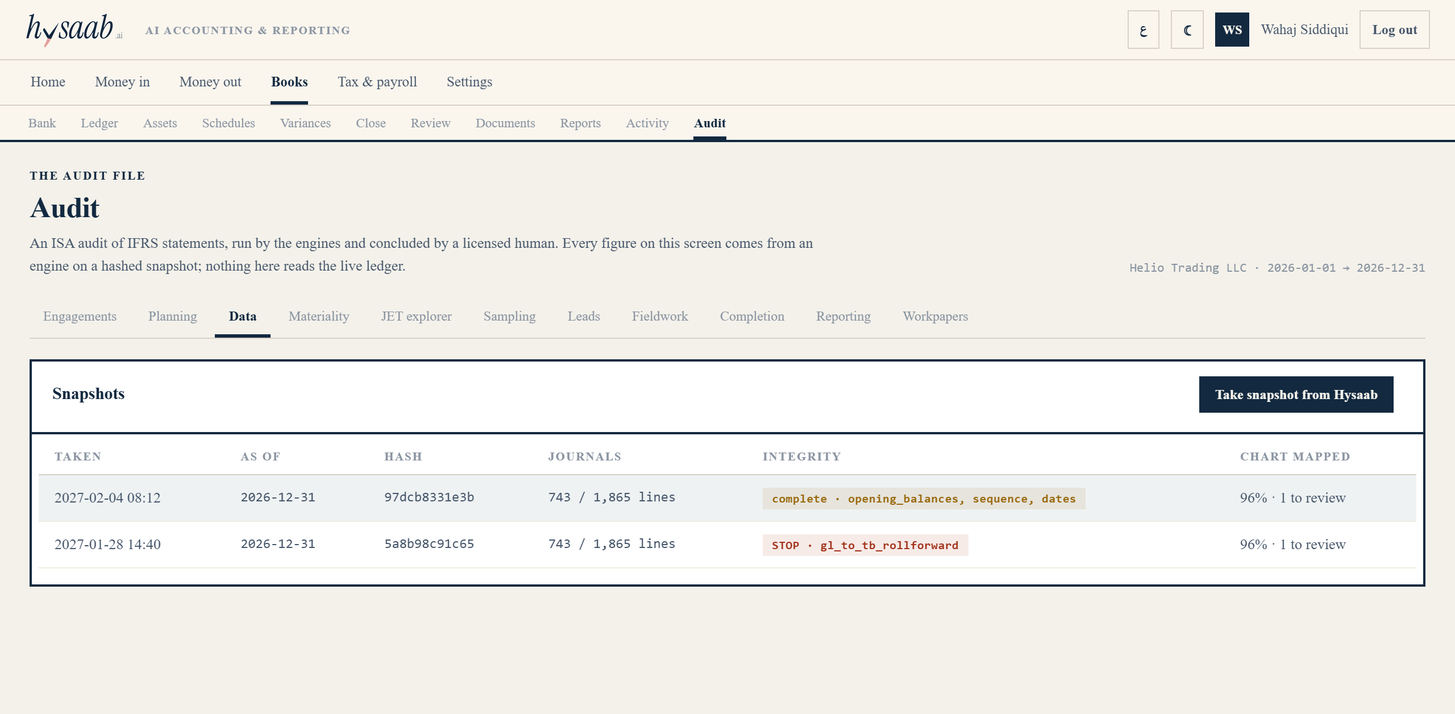
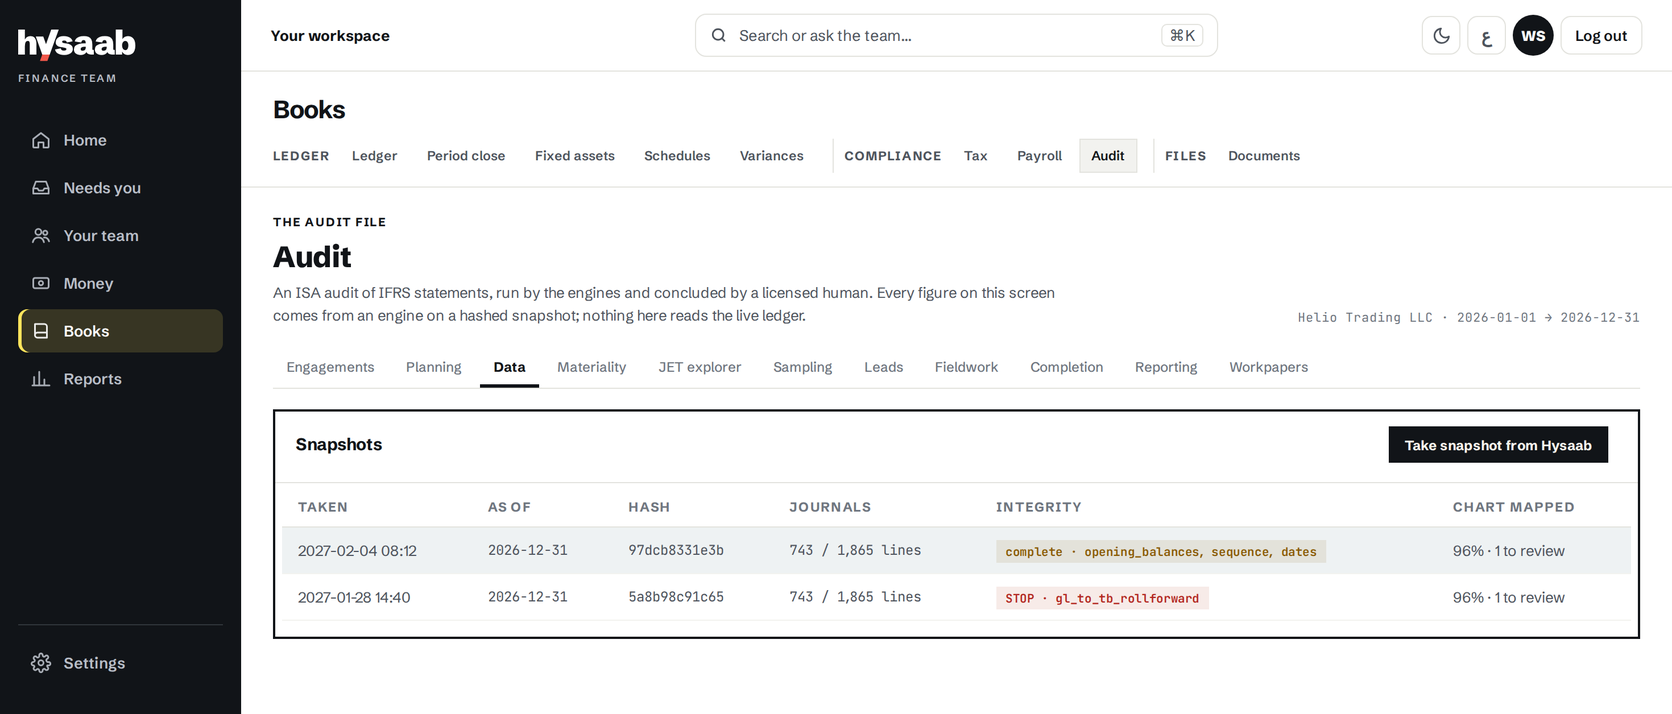
Product screenshots in Tick & Tie: audit, finance and captions
Every product capture on the site now shows the rebranded app (ink,
highlighter, Hysaab Grotesk/Mono), rendered from the app itself with its
built-in sample data:
- Audit (public/shots/audit-*.png, home/screens/p-audit-jet.png): the
  real audit module fed the Helio Trading demo engagement. /audit shot
  sizes updated. The completion card now agrees with its register (5
  uncorrected, PBT -718,500) and the planning gate no longer contradicts
  the approved risk register.
- Finance (home/screens 00-05, f-01..f-05, p-payables, p-close,
  p-receivables, p-tax): the same panels as before; the personal email in
  the intake ledger is redacted as before.
- Captions follow what the screens show today: the decisions moment is
  the review queue, the position moment is the Home screen, receivables
  no longer mentions provisioning, the close shows one checklist (en+ar).
- /audit no longer says Practice and Audit share the same clients; each
  keeps its own client records and independence rules decide.

adv-arabic.png is unchanged: the new workspace home is only partly
translated in Arabic, so a fresh capture would show mixed languages.

Claude-Session: https://claude.ai/code/session_01QfKEbqKpFncXbPW1S3saiE

diff --git a/app/(en)/audit/page.tsx b/app/(en)/audit/page.tsx
@@ -31,7 +31,7 @@ const STEPS: {
       ["Sequence", <>Missing journal numbers are listed as gaps for the client to explain.</>],
       ["Hashed", <>SHA-256 on the snapshot. Every later figure cites the hash it came from.</>],
     ],
-    shot: { src: "/shots/audit-data.png", w: 2560, h: 1256, alt: "Hysaab Audit snapshots: the first pull marked STOP for a broken general-ledger roll-forward, the corrected pull marked complete, both with their SHA-256 hashes" },
+    shot: { src: "/shots/audit-data.png", w: 2940, h: 1256, alt: "Hysaab Audit snapshots: the first pull marked STOP for a broken general-ledger roll-forward, the corrected pull marked complete, both with their SHA-256 hashes" },
     bar: "Data · snapshots and integrity",
     cap: "The first snapshot stopped the file: the client's trial balance predated a journal in the ledger.",
   },
@@ -44,7 +44,7 @@ const STEPS: {
       ["Materiality", <>Computed from this year's figures, with every candidate benchmark shown and the choice explained.</>],
       ["The programme", <>Only the procedures that fit the chart are instantiated. No tax recompute where there is no tax account.</>],
     ],
-    shot: { src: "/shots/audit-planning.png", w: 2540, h: 2360, alt: "Hysaab Audit planning: phase strip, the B6 risk register with nine significant risks by line and assertion, and the planning procedures with their last run" },
+    shot: { src: "/shots/audit-planning.png", w: 2920, h: 2360, alt: "Hysaab Audit planning: phase strip, the B6 risk register with nine significant risks by line and assertion, and the planning procedures with their last run" },
     bar: "Planning · risk register and procedures",
     cap: "Nine significant risks, each with the factor that raised it. The gate stays shut until the partner approves.",
   },
@@ -57,7 +57,7 @@ const STEPS: {
       ["Thirty criteria", <>Post-close postings, round numbers, weekends and holidays, blank narratives, seldom-used accounts, keyword hits, duplicates, reversals, segregation conflicts, entries just below an approval threshold.</>],
       ["Auditable", <>Each row carries the criteria that flagged it. The selection is seeded, so it reproduces.</>],
     ],
-    shot: { src: "/shots/audit-jet.png", w: 2540, h: 2360, alt: "Hysaab Audit journal-entry testing: every journal scored against thirty criteria, stratified above performance materiality, scored and random, with the criteria hits and vouching result on each row" },
+    shot: { src: "/shots/audit-jet.png", w: 2920, h: 2360, alt: "Hysaab Audit journal-entry testing: every journal scored against thirty criteria, stratified above performance materiality, scored and random, with the criteria hits and vouching result on each row" },
     bar: "JET explorer · ISA 240 journal testing",
     cap: "The top rows are the planted ones: revenue booked after year-end, a suspense plug, a duplicate payment, a capitalised expense, a related-party fee.",
   },
@@ -70,7 +70,7 @@ const STEPS: {
       ["Attribute too", <>Control testing at ninety-five percent confidence with its own sample table.</>],
       ["Honest answer", <>An upper limit above performance materiality is reported as not accepted, not explained away.</>],
     ],
-    shot: { src: "/shots/audit-sampling.png", w: 2540, h: 2360, alt: "Hysaab Audit sampling workbench: monetary-unit sample design, the selection with top stratum and sampled items, audited values entered, and the evaluation with the upper misstatement limit" },
+    shot: { src: "/shots/audit-sampling.png", w: 2920, h: 2360, alt: "Hysaab Audit sampling workbench: monetary-unit sample design, the selection with top stratum and sampled items, audited values entered, and the evaluation with the upper misstatement limit" },
     bar: "Sampling · monetary-unit sample",
     cap: "Upper limit 563,355 against performance materiality 231,800. The engine calls it: not accepted.",
   },
@@ -83,7 +83,7 @@ const STEPS: {
       ["Reliability", <>Scored by route and sender domain. A forwarded reply is evidence of a different grade.</>],
       ["Sent by people", <>Letters leave the firm's own mailbox. The software drafts them and tracks them.</>],
     ],
-    shot: { src: "/shots/audit-fieldwork.png", w: 2540, h: 2360, alt: "Hysaab Audit fieldwork: the confirmation tracker with book and confirmed balances, reliability and status, and the information request list with owners, due dates and received status" },
+    shot: { src: "/shots/audit-fieldwork.png", w: 3120, h: 2360, alt: "Hysaab Audit fieldwork: the confirmation tracker with book and confirmed balances, reliability and status, and the information request list with owners, due dates and received status" },
     bar: "Fieldwork · confirmations and requests",
     cap: "One exception of 42,750, one reply routed through the client, one escalated to alternative procedures.",
   },
@@ -96,7 +96,7 @@ const STEPS: {
       ["Subsequent events", <>Post-period journals and minutes are scanned and classified adjusting or non-adjusting, with the IAS 10 reference.</>],
       ["File completion", <>Nine checks on the file itself. Two are still open on this engagement, and it says so.</>],
     ],
-    shot: { src: "/shots/audit-completion.png", w: 2540, h: 2460, alt: "Hysaab Audit completion: the misstatement register evaluated against materiality on both bases, going concern with stress headroom, file completion checks, and the subsequent events classified under IAS 10" },
+    shot: { src: "/shots/audit-completion.png", w: 3120, h: 2460, alt: "Hysaab Audit completion: the misstatement register evaluated against materiality on both bases, going concern with stress headroom, file completion checks, and the subsequent events classified under IAS 10" },
     bar: "Completion · the misstatement register",
     cap: "Five findings, four above clearly trivial, one aggregate the partner has to act on.",
   },
@@ -109,7 +109,7 @@ const STEPS: {
       ["Versions", <>Immutable. The reason for every new version is on the paper.</>],
       ["Conclusions", <>A reviewer cannot sign a judgement workpaper without recording a conclusion in their own words.</>],
     ],
-    shot: { src: "/shots/audit-workpapers.png", w: 2540, h: 2460, alt: "Hysaab Audit workpaper file: twenty-one workpapers with their review state, and the trade receivables lead schedule open with tick marks, the sub-ledger difference and an inconclusive conclusion" },
+    shot: { src: "/shots/audit-workpapers.png", w: 2920, h: 2460, alt: "Hysaab Audit workpaper file: twenty-one workpapers with their review state, and the trade receivables lead schedule open with tick marks, the sub-ledger difference and an inconclusive conclusion" },
     bar: "Workpapers · the audit file",
     cap: "The receivables lead is inconclusive because the sub-ledger is 15,000 short. It stays inconclusive until someone explains it.",
   },
@@ -270,7 +270,7 @@ export default function AuditPage() {
               <p className="hw-eyebrow">Where it sits</p>
               <h2>Part of the professional services stack.</h2>
             </div>
-            <p>Hysaab Audit can be bought on its own, or with <a href="/firms">Hysaab Practice</a>, our product for tax and advisory firms. Together they share the same clients, the same file room and the same rule that the AI proposes and a person decides.</p>
+            <p>Hysaab Audit can be bought on its own, or with <a href="/firms">Hysaab Practice</a>, our product for tax and advisory firms. Both follow the same rule: the AI proposes and a person decides. Each keeps its own client records, so your independence rules decide who works on which client.</p>
           </div>
           <div className="hw-cards">
             <article>

diff --git a/lib/home-moments.ts b/lib/home-moments.ts
@@ -84,11 +84,11 @@ export const MOMENTS: MomentDef[] = [
     tabBody: "If a treatment looks wrong, Hysaab explains the concern and recommends a better route.",
     title: "A colleague who asks you to think twice.",
     description: "When a coding falls below the confidence gate, a tax invoice fails the rules or a price creeps, Hysaab stops and brings it to you with its reasoning.",
-    caption: "Decisions required, sample data: a coding questioned against the supplier’s history, input VAT held until an invoice is corrected, and a price rise with no contract change on file.",
-    alt: "Hysaab decisions queue with four items: two missing periods for a recurring supplier, a coding below the confidence threshold where history suggests a different account, a tax invoice that omits the supplier TRN so input VAT is blocked, and a detected price increase. Each shows the agent, a confidence score and buttons to open the queue or the detail.",
+    caption: "The review queue, sample data: four decisions with the agent that raised each and its confidence, one open: input VAT held until the supplier corrects its invoice.",
+    alt: "Hysaab review queue with four decisions: two periods missing for a recurring supplier, a coding below the confidence threshold, tax invoice criteria not met, and price creep detected, each with its agent and confidence. The tax invoice decision is open: Almarai Catering INV-5512 omits the supplier TRN, so input VAT of AED 1,036 is blocked until corrected, with a box for the reviewer’s reasoning.",
     pending: "Workspace capture pending: the decisions queue.",
     focus: "f-03-second-opinion.png",
-    notice: "Notice a coding questioned against the supplier’s own history, and input VAT held until the invoice is corrected.",
+    notice: "Notice each decision carries the agent and its confidence, and the open one holds input VAT until the invoice is corrected.",
   },
   {
     key: "record", num: "04", file: "04-app-journal-why.png", channel: WORKSPACE,
@@ -105,14 +105,14 @@ export const MOMENTS: MomentDef[] = [
   {
     key: "position", num: "05", file: "05-app-position.png", channel: WORKSPACE,
     tabTitle: "See where you stand.",
-    tabBody: "Ask in plain words, or read cash, payables, receivables, VAT and runway at a glance.",
+    tabBody: "Ask the team in plain words, or read cash, decisions and bills due at a glance.",
     title: "The picture, in plain words.",
-    description: "The Today screen opens with a question box and the position that matters: cash, working capital, revenue, payables due, overdue receivables, VAT, runway and burn.",
-    caption: "The Today screen, sample data: the plain-language question box and the eight position tiles.",
-    alt: "Hysaab Today screen: a box asking “What do you want to know?” with suggested questions, above eight tiles for cash position, net working capital, revenue month to date, payables due in 30 days, receivables overdue, VAT position, runway and net burn.",
-    pending: "Workspace capture pending: the Today screen.",
+    description: "Home opens on what needs you: cash, the decisions waiting and the bills due, then where the month’s cash came from and went.",
+    caption: "The Home screen, sample data: cash, decisions and bills due in 30 days, and June’s cash: AED 612k in, AED 442k out.",
+    alt: "Hysaab Home screen: tiles for cash of AED 1.4m, up 14% on last month, four decisions with two critical, and AED 216k due in 30 days with two bills overdue; below, a chart of June from AED 1.23m at the start, AED 612k in and AED 442k out, to AED 1.4m now.",
+    pending: "Workspace capture pending: the Home screen.",
     focus: "f-05-position.png",
-    notice: "Notice the position tiles: cash, working capital, revenue and payables due, each with its context line.",
+    notice: "Notice the three tiles: cash, what needs you and what falls due, each with its context line.",
   },
 ];
 

diff --git a/app/ar/how-it-works/page.tsx b/app/ar/how-it-works/page.tsx
@@ -96,8 +96,8 @@ const SCREENS = [
     p: "حين ينزل الترميز دون بوابة الثقة، أو تخفق فاتورة ضريبية في القواعد، أو يرتفع سعر مورد بلا تغيير في العقد المحفوظ، يتوقف Hysaab ويأتيك بالأمر. يخبرك بما تقوله سياستك ويطلب منك أن تقرر.",
     ticks: ["كل قرار يسمّي الشاغل والدليل", "مسار موصى به، لا تصحيح صامت", "إجابتك تُسجَّل مع القيد الذي تؤثر فيه"],
     file: "03-app-second-opinion.png", title: "قرارات مطلوبة",
-    alt: "قائمة القرارات في Hysaab وفيها أربعة بنود: فترات ناقصة لمورد متكرر، وترميز دون حد الثقة حيث يشير السجل إلى حساب مختلف، وفاتورة ضريبية تغفل رقم التسجيل الضريبي للمورد فتُحظر ضريبة المدخلات، وزيادة سعر مكتشفة. يعرض كل بند درجة ثقة وأزرارًا لفتح القائمة أو التفاصيل. بيانات تجريبية.",
-    caption: "قرارات مطلوبة، بيانات تجريبية: ترميز موضع تساؤل، وضريبة مدخلات محتجزة حتى تُصحَّح الفاتورة، وزيادة سعر بلا تغيير في العقد المحفوظ.",
+    alt: "قائمة المراجعة في Hysaab وفيها أربعة قرارات: فترات ناقصة لمورد متكرر، وترميز دون حد الثقة، وفاتورة ضريبية لا تستوفي المعايير، وزيادة سعر، لكل منها وكيلها ودرجة ثقتها. القرار المفتوح: فاتورة ألمراعي INV-5512 تغفل رقم التسجيل الضريبي للمورد، فتُحظر ضريبة مدخلات قدرها 1,036 درهمًا حتى التصحيح. بيانات تجريبية.",
+    caption: "قائمة المراجعة، بيانات تجريبية: أربعة قرارات لكل منها وكيلها ودرجة ثقتها؛ والقرار المفتوح يحتجز ضريبة المدخلات حتى تُصحَّح الفاتورة.",
   },
   {
     eyebrow: "الخطوتان 08 و09 / على الشاشة",
@@ -105,8 +105,8 @@ const SCREENS = [
     p: "الاستحقاقات المقترحة تجلس بجانب أساسها. قائمة تحقق تغطي جانب Hysaab من الإقفال وأخرى تغطي جانب دفترك. والقفل مشروط، وينتظرك أنت.",
     ticks: ["الاستحقاقات تُقترح مع أساسها، وتوافق عليها أنت", "قائمة تحقق لكل جانب من الإقفال", "قفل الفترة يضغطه شخص"],
     file: "p-close.png", title: "لوحة الإقفال",
-    alt: "لوحة الإقفال في Hysaab: استحقاقات متكررة مقترحة مع أساسها ومبلغها، وقائمة تحقق بما يشغّله Hysaab، وقائمة تحقق لجانب دفتر الأستاذ، وزر إقفال الفترة وقفلها. بيانات تجريبية.",
-    caption: "لوحة الإقفال، بيانات تجريبية: الاستحقاقات المقترحة وقائمتا التحقق والقفل المشروط.",
+    alt: "لوحة الإقفال في Hysaab: استحقاقات متكررة مقترحة مع أساسها ومبلغها، وقائمة تحقق لجانب دفتر الأستاذ، وزر إقفال الفترة وقفلها خلف بوابتها. بيانات تجريبية.",
+    caption: "لوحة الإقفال، بيانات تجريبية: الاستحقاقات المقترحة وقائمة تحقق دفتر الأستاذ والقفل المشروط.",
   },
 ];
 

diff --git a/app/ar/accounting/page.tsx b/app/ar/accounting/page.tsx
@@ -41,8 +41,8 @@ const MODULES = [
     p: "تُصاغ رسائل التذكير ضمن وتيرة تحصيل تحددها مرة واحدة، ولا يُرسل شيء قبل موافقتك. أعمار الديون ووعود السداد والتعرض للمخصصات على شاشة واحدة، مقيسة وفق سياستك أنت.",
     ticks: ["أعمار الديون والخطوة التالية لكل فاتورة مفتوحة", "المخصصات تتبع السلّم الذي حددته", "كشوف حساب العملاء تُطابَق مع دفاترك"],
     file: "p-receivables.png", title: "الذمم المدينة",
-    alt: "شاشة الذمم المدينة في Hysaab: بطاقات للذمم المفتوحة والمستحقة والمتأخرة والمعرّضة للخطر، ورسم لأعمار الديون، ومخاطر الشطب والمخصصات، وجدول بالفواتير مع أعمارها وحالتها والخطوة التالية. بيانات تجريبية.",
-    caption: "الذمم المدينة، بيانات تجريبية: أعمار الديون والمخصصات وخطوة التحصيل التالية لكل فاتورة.",
+    alt: "الذمم المدينة في Hysaab: كل فاتورة غير مسددة مع العميل وتاريخ الإصدار والمبلغ وفئة العمر والحالة وخطوة التحصيل التالية، بجانب خانة كشوف حساب العملاء. بيانات تجريبية.",
+    caption: "الذمم المدينة، بيانات تجريبية: أعمار الديون والحالة وخطوة التحصيل التالية لكل فاتورة.",
   },
   {
     n: "03", name: "دفتر الأستاذ",
@@ -59,8 +59,8 @@ const MODULES = [
     p: "تعرض لوحة الإقفال ما أنجزه Hysaab، وما لا يزال مفتوحًا، وما يحتاج إلى شخص. تُقترح الاستحقاقات مع أساسها لتوافق عليها. وحين تكون البوابات خالية تقفل الفترة أنت، ويسري القفل على الجميع، بما في ذلك Hysaab.",
     ticks: ["الاستحقاقات تُقترح مع أساسها، وتوافق عليها أنت", "قائمة تحقق لجانب Hysaab وأخرى لجانب دفترك", "قفل الفترة زرٌّ تضغطه أنت"],
     file: "p-close.png", title: "لوحة الإقفال",
-    alt: "لوحة الإقفال في Hysaab: استحقاقات متكررة مقترحة مع أساسها ومبلغها، وقائمة تحقق بما يشغّله Hysaab، وقائمة تحقق لجانب دفتر الأستاذ، وزر إقفال الفترة وقفلها. بيانات تجريبية.",
-    caption: "لوحة الإقفال، بيانات تجريبية: الاستحقاقات المقترحة وقائمتا التحقق والقفل المشروط.",
+    alt: "لوحة الإقفال في Hysaab: استحقاقات متكررة مقترحة مع أساسها ومبلغها، وقائمة تحقق لجانب دفتر الأستاذ، وزر إقفال الفترة وقفلها خلف بوابتها. بيانات تجريبية.",
+    caption: "لوحة الإقفال، بيانات تجريبية: الاستحقاقات المقترحة وقائمة تحقق دفتر الأستاذ والقفل المشروط.",
   },
   {
     n: "05", name: "المستندات",

diff --git a/app/(en)/how-it-works/page.tsx b/app/(en)/how-it-works/page.tsx
@@ -95,8 +95,8 @@ const SCREENS = [
     p: "When a coding falls below the confidence gate, a tax invoice fails the rules or a supplier’s price rises with no contract change on file, Hysaab stops and brings it to you. It tells you what your policy says and asks you to make the call.",
     ticks: ["Each decision names the concern and the evidence", "A recommended route, not a silent correction", "Your answer is recorded with the entry it affects"],
     file: "03-app-second-opinion.png", title: "Decisions required",
-    alt: "Hysaab decisions queue with four items: missing periods for a recurring supplier, a coding below the confidence threshold where history suggests a different account, a tax invoice that omits the supplier TRN so input VAT is blocked, and a detected price increase. Each shows a confidence score and buttons to open the queue or the detail.",
-    caption: "Decisions required, sample data: a coding questioned, input VAT held until an invoice is corrected, and a price rise with no contract change on file.",
+    alt: "Hysaab review queue with four decisions: missing periods for a recurring supplier, a coding below the confidence threshold, tax invoice criteria not met, and price creep, each with its agent and confidence. The open decision: Almarai Catering INV-5512 omits the supplier TRN, so input VAT of AED 1,036 is blocked until corrected.",
+    caption: "The review queue, sample data: four decisions, each with its agent and confidence; the open one holds input VAT until the invoice is corrected.",
   },
   {
     eyebrow: "Steps 08 and 09 / On screen",
@@ -104,8 +104,8 @@ const SCREENS = [
     p: "Proposed accruals sit beside their basis. One checklist covers Hysaab’s side of the close and another covers your ledger’s side. The lock is gated, and it waits for you.",
     ticks: ["Accruals proposed with their basis, approved by you", "A checklist for each side of the close", "The period lock is pressed by a person"],
     file: "p-close.png", title: "Close cockpit",
-    alt: "Hysaab close cockpit: proposed recurring accruals with basis and amount, a checklist of what Hysaab runs, a checklist for the ledger’s side, and the button to close and lock the period.",
-    caption: "The close cockpit, sample data: proposed accruals, both checklists and the gated lock.",
+    alt: "Hysaab close cockpit: proposed recurring accruals with basis and amount, the ledger’s side checklist, and the button to close and lock the period behind its gate.",
+    caption: "The close cockpit, sample data: proposed accruals, the ledger’s checklist and the gated lock.",
   },
 ];
 

diff --git a/app/(en)/accounting/page.tsx b/app/(en)/accounting/page.tsx
@@ -45,8 +45,8 @@ const MODULES = [
     p: "Reminders are drafted inside a collections cadence you set once, and nothing sends until you approve it. Ageing, promises to pay and provision exposure sit on one screen, measured against your own policy.",
     ticks: ["Ageing and the next step for every open invoice", "Provisioning follows the ladder you set", "Customer statements are reconciled against your books"],
     file: "p-receivables.png", title: "Receivables",
-    alt: "Hysaab receivables screen: tiles for open, due, past-due and at-risk receivables, an ageing chart, write-off risk and provisioning, and a table of invoices with ageing, status and next step.",
-    caption: "Receivables, sample data: ageing, provisioning and the next collection step for each invoice.",
+    alt: "Hysaab receivables: every invoice still owed with customer, issue date, amount, ageing band, status and next collection step, beside the customer statements drop.",
+    caption: "Receivables, sample data: ageing, status and the next collection step for each invoice.",
   },
   {
     n: "03", name: "Ledger",
@@ -63,8 +63,8 @@ const MODULES = [
     p: "The close cockpit shows what Hysaab has done, what is still open and what needs a person. Accruals are proposed with their basis for you to approve. When the gates are clear you lock the period, and the lock applies to everyone, Hysaab included.",
     ticks: ["Accruals proposed with their basis, approved by you", "A checklist for Hysaab’s side and for your ledger’s side", "The period lock is yours to press"],
     file: "p-close.png", title: "Close cockpit",
-    alt: "Hysaab close cockpit: proposed recurring accruals with basis and amount, a checklist of what Hysaab runs, a checklist for the ledger’s side, and the button to close and lock the period.",
-    caption: "The close cockpit, sample data: proposed accruals, both checklists and the gated lock.",
+    alt: "Hysaab close cockpit: proposed recurring accruals with basis and amount, the ledger’s side checklist, and the button to close and lock the period behind its gate.",
+    caption: "The close cockpit, sample data: proposed accruals, the ledger’s checklist and the gated lock.",
   },
   {
     n: "05", name: "Documents",

diff --git a/app/ar/page.tsx b/app/ar/page.tsx
@@ -78,9 +78,9 @@ const PRODUCTS: { status: string; name: string; desc: string; line: string; href
 const AR_NOTICE: Record<string, string> = {
   intake: "لاحظ عمود القناة، واتساب والبريد جنبًا إلى جنب، ونتيجة كل مستند، ومنها فاتورة أُوقفت لأنها لم تجتز اختبار الفاتورة الضريبية.",
   coded: "لاحظ الحساب المقترح لكل فاتورة مع درجة الثقة والسجل، ونتيجة اختبار الفاتورة الضريبية بجانبه.",
-  challenge: "لاحظ ترميزًا جرى التشكيك فيه استنادًا إلى سجل المورد نفسه، وضريبة مدخلات أُوقفت حتى تُصحَّح الفاتورة.",
+  challenge: "لاحظ أن كل قرار يحمل الوكيل الذي أثاره ودرجة ثقته، وأن القرار المفتوح يوقف ضريبة المدخلات حتى تُصحَّح الفاتورة.",
   record: "لاحظ قيدًا مفتوحًا على تعليقه، والمطابقة مع إجمالي الفاتورة، والمستندات المرفقة.",
-  position: "لاحظ بطاقات المركز المالي: النقد ورأس المال العامل والإيراد والذمم الدائنة المستحقة، ولكل منها سطر سياق.",
+  position: "لاحظ البطاقات الثلاث: النقد، وما ينتظرك، وما يستحق الدفع، ولكل منها سطر سياق.",
 };
 const AR_TITLE: Record<string, string> = {
   intake: "أرسله.",
